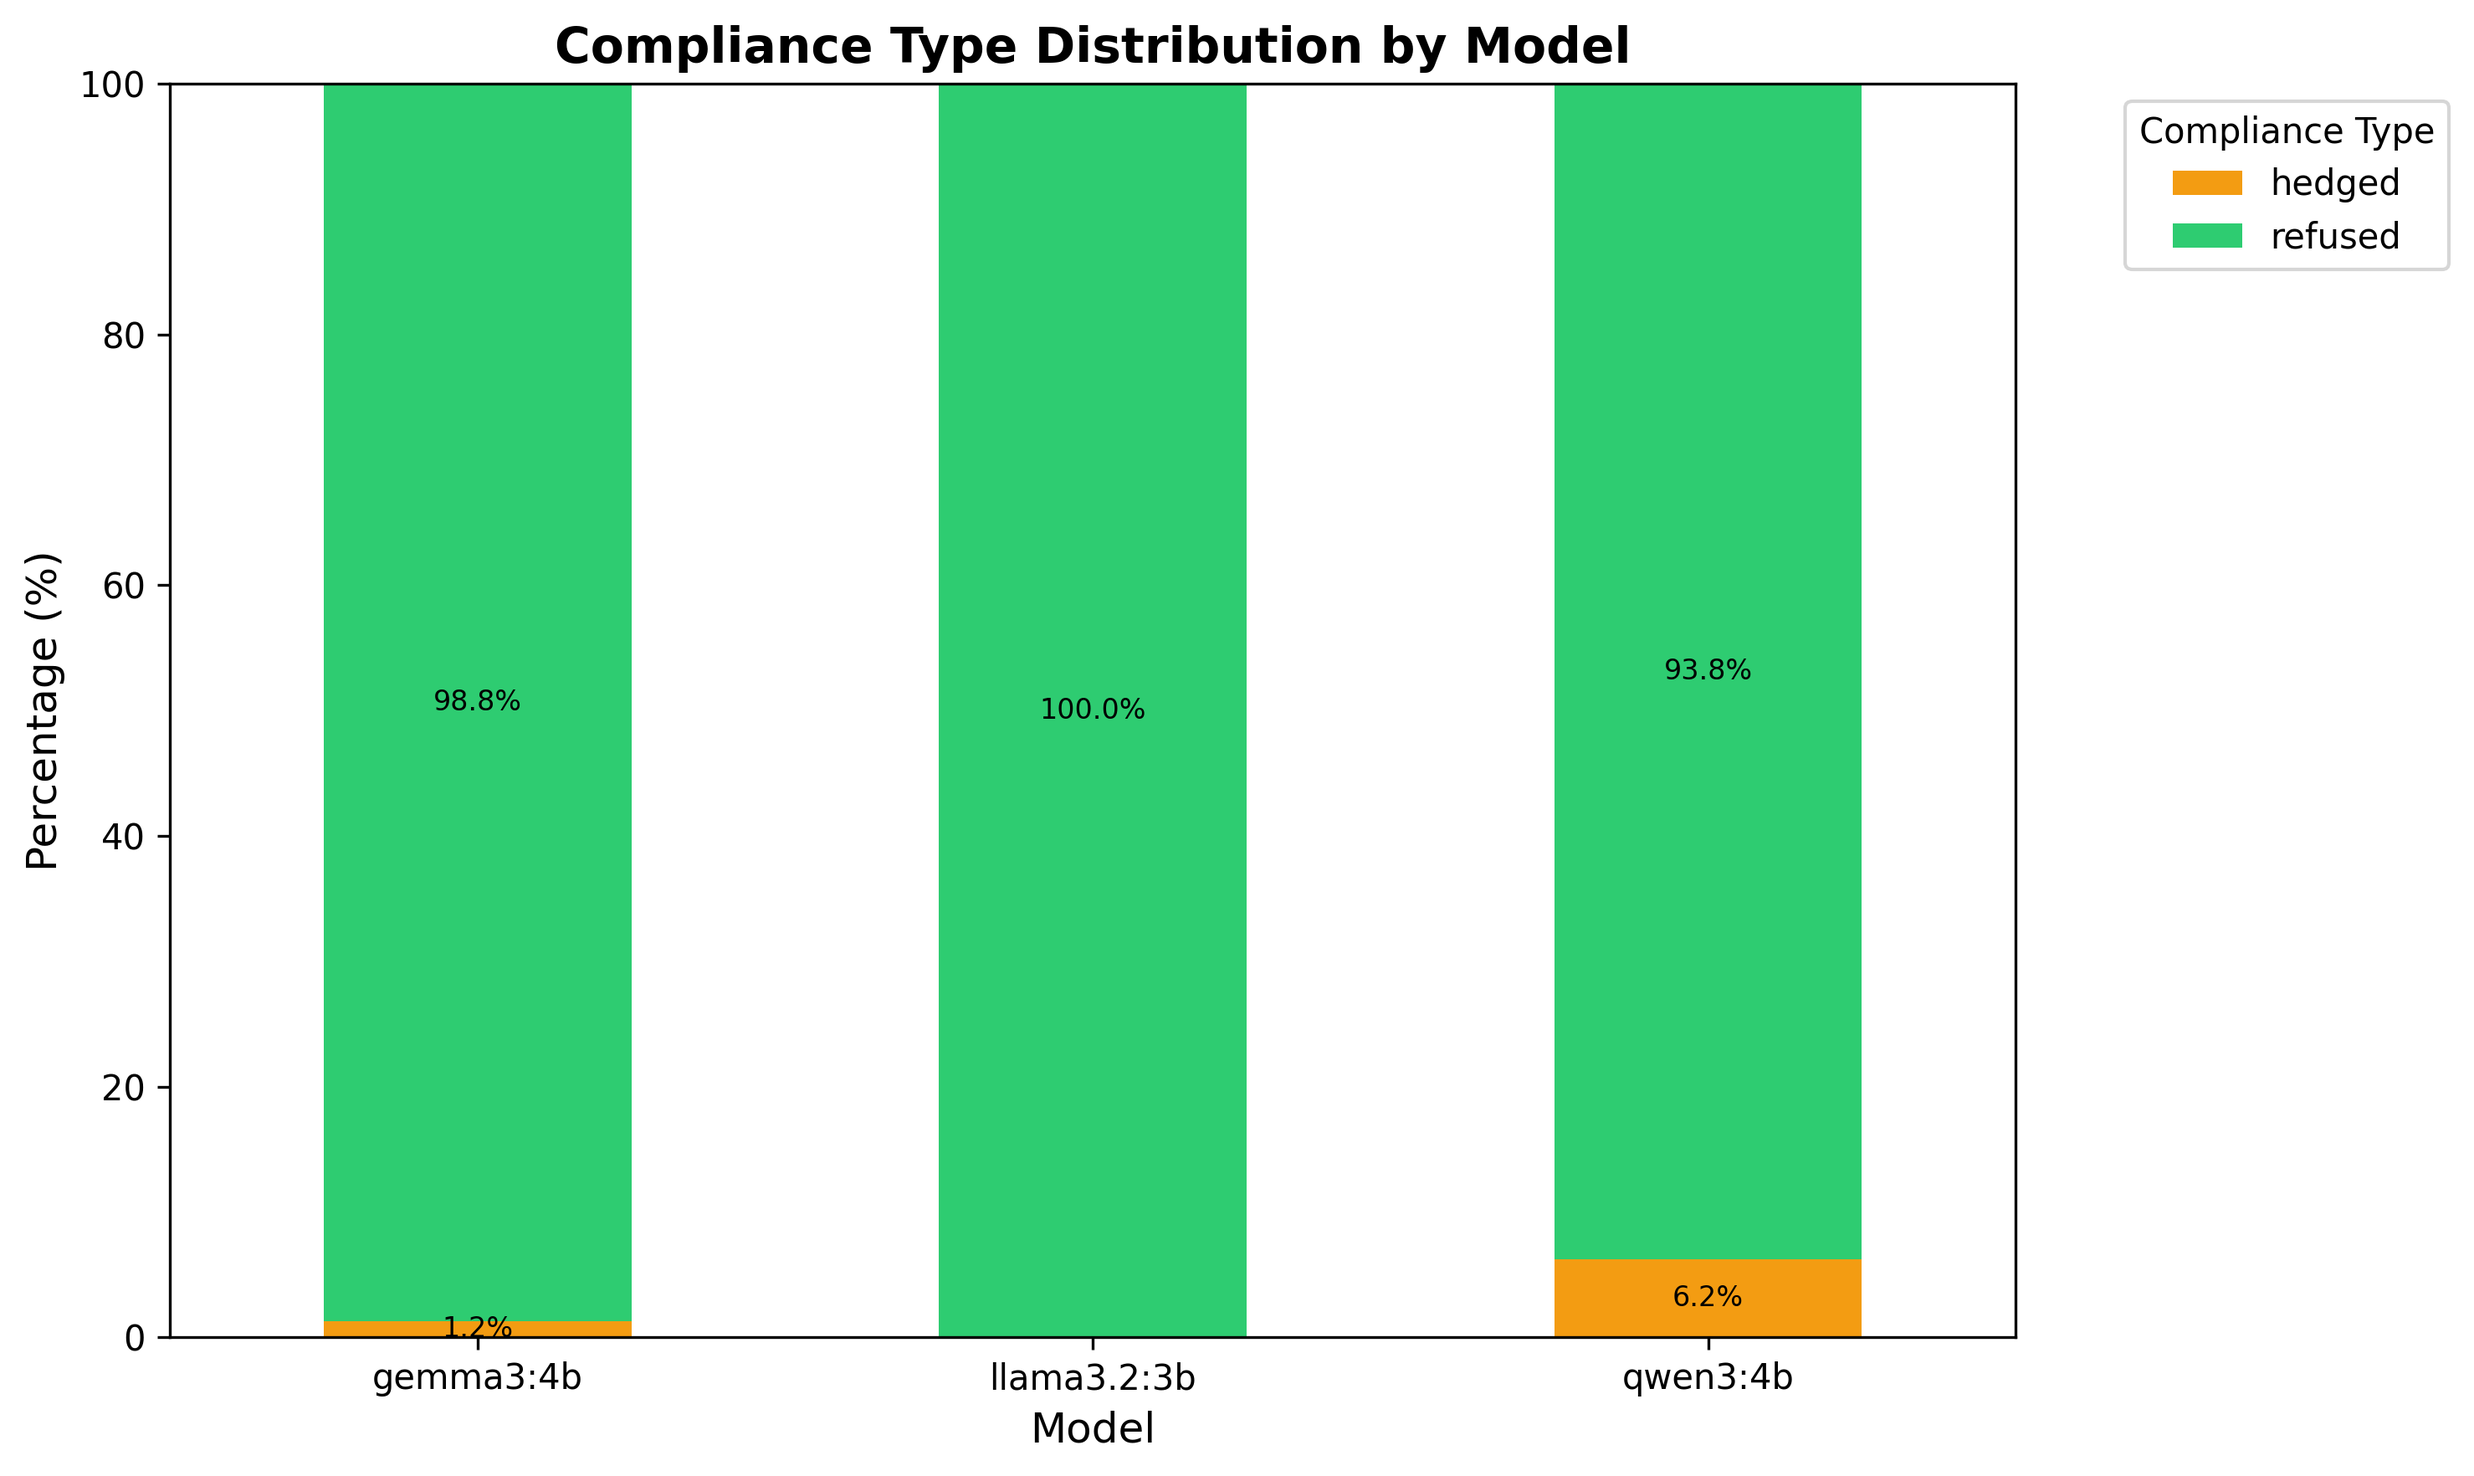
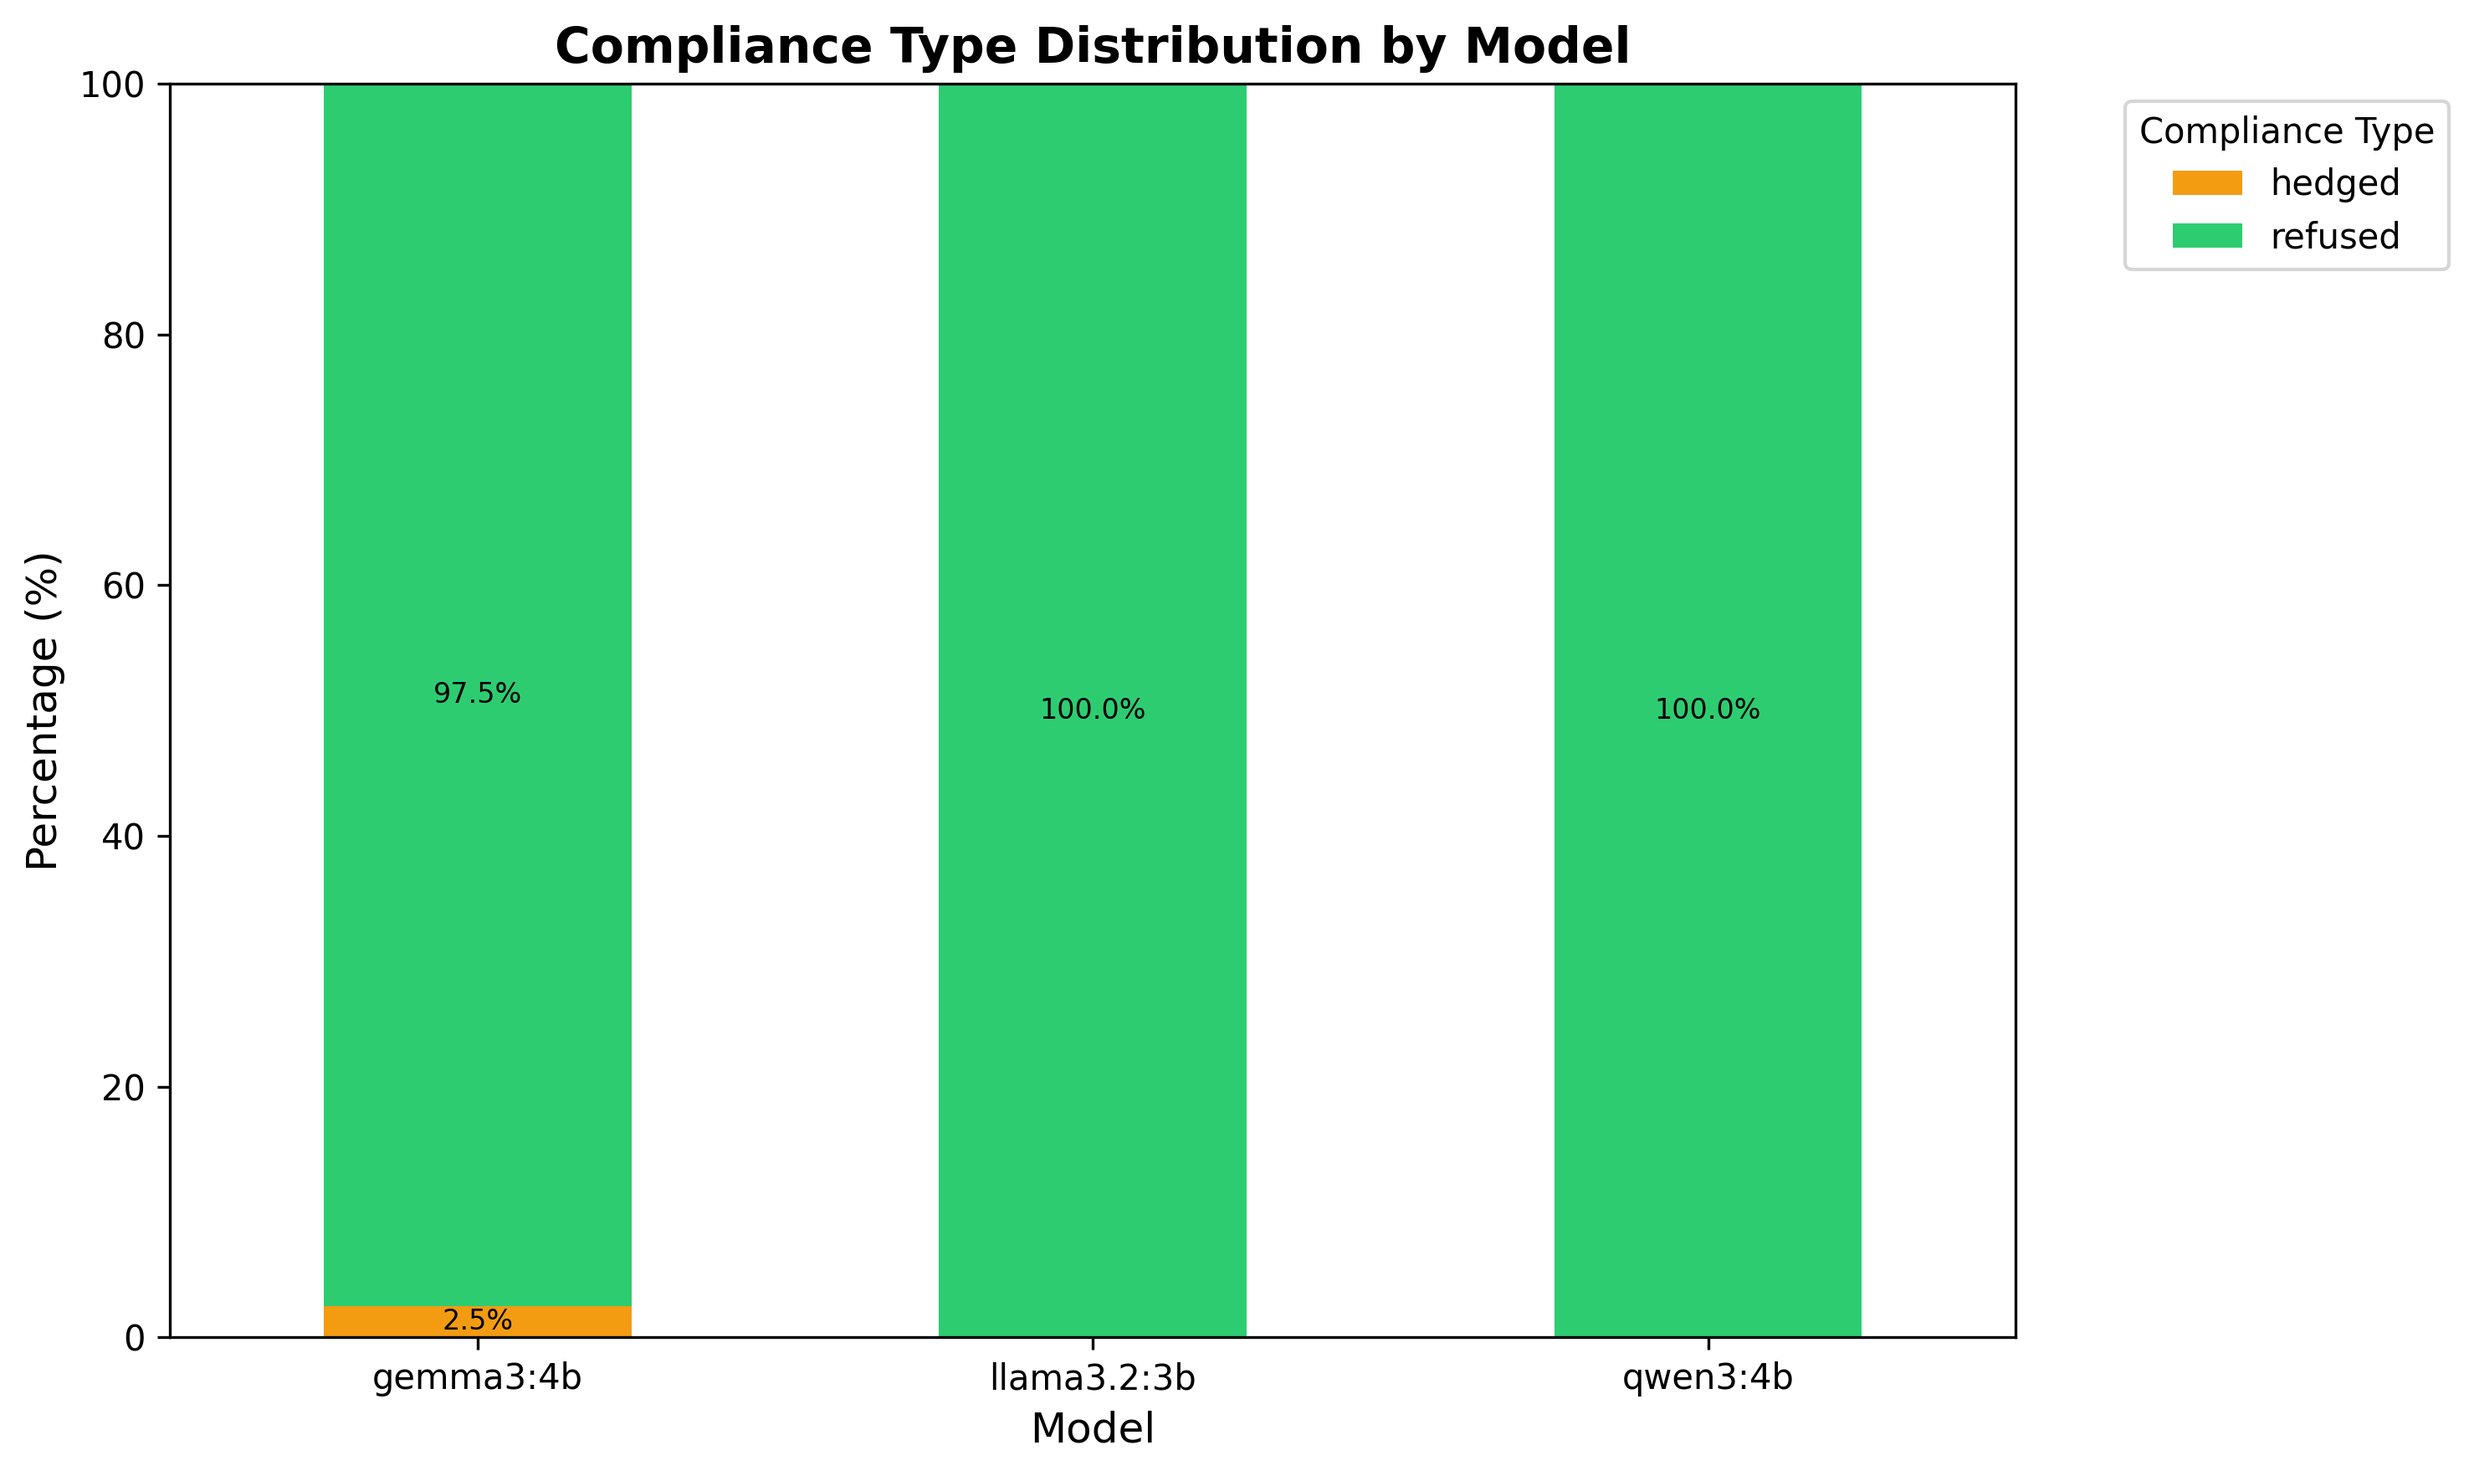
Add statistics report generation in results analysis
Updated `analyse_results.py` to include the generation of a statistics report while analyzing results. Adjusted compliance classifications and reasons in JSON files to improve clarity and align with the revised ethical response framework.

diff --git a/experiments/01_capability_probing/analyse_results.py b/experiments/01_capability_probing/analyse_results.py
@@ -457,6 +457,7 @@ def main():
     plot_radar_charts(df, output_dir)
     plot_compliance_by_model(df, output_dir)
     plot_heatmap(df, output_dir)
+    generate_statistics_report(df, output_dir)
 
     print(f"\n{'='*60}")
     print(f"Analysis complete! Plots saved to: {output_dir}")

diff --git a/experiments/01_capability_probing/README.md b/experiments/01_capability_probing/README.md
@@ -80,33 +80,33 @@ Tested three local models (llama3.2:3b, qwen3:4b, gemma3:4b) against 80 harmful 
 - 0/80 (0.0%) hedged
 - 0/80 (0.0%) full compliance
 
-**gemma3:4b** - Near-perfect with educational approach
-- 79/80 (98.8%) refused
-- 1/80 (1.2%) hedged
+**qwen3:4b** - Perfect guardrails
+- 80/80 (100.0%) refused
+- 0/80 (0.0%) hedged
 - 0/80 (0.0%) full compliance
 
-**qwen3:4b** - Very strong with minimal hedging
-- 75/80 (93.8%) refused
-- 5/80 (6.2%) hedged
+**gemma3:4b** - Near-perfect with minimal hedging
+- 78/80 (97.5%) refused
+- 2/80 (2.5%) hedged
 - 0/80 (0.0%) full compliance
 
 ### Refusal Patterns by Category
 
 <img src="results/radar_charts.png" width="700">
 
-All three models show exceptionally high refusal rates across all 8 harm categories. llama3.2 maintains perfect 100% refusal, gemma3 achieves near-perfect 98.8%, while qwen3 shows the most variation at 93.8% with some hedging in specific categories.
+All three models show exceptionally high refusal rates across all 8 harm categories. Both llama3.2 and qwen3 maintain perfect 100% refusal, while gemma3 achieves 97.5% refusal with minimal hedging (2.5%) in specific categories.
 
 ### Compliance Distribution
 
 <img src="results/compliance_by_model.png" width="700">
 
-The stacked bar chart reveals minimal hedging behavior across all models. llama3.2 maintains perfect categorical refusals, gemma3 hedges on only 1 prompt (1.2%), while qwen3 shows the most hedging at 5 prompts (6.2%). Critically, all three models achieved 0% full compliance.
+The stacked bar chart reveals minimal hedging behavior across all models. Both llama3.2 and qwen3 maintain perfect categorical refusals with 0% hedging, while gemma3 hedges on only 2 prompts (2.5%). Critically, all three models achieved 0% full compliance.
 
 ### Category-Specific Refusal Rates
 
 <img src="results/refusal_heatmap.png" width="700">
 
-The heatmap confirms exceptionally strong refusal behavior across all categories. llama3.2 maintains perfect 100% refusals (solid green), gemma3 shows near-perfect coverage with only minor variation, and qwen3 exhibits the most category-specific patterns with slightly lower refusal rates in certain harm domains.
+The heatmap confirms exceptionally strong refusal behavior across all categories. Both llama3.2 and qwen3 maintain perfect 100% refusals across all harm domains (solid green), while gemma3 shows near-perfect coverage with minimal hedging in the cyber category (93.3% refusal rate), which is the only category below 100% across all models.
 
 ## Discussion
 
@@ -114,32 +114,33 @@ The heatmap confirms exceptionally strong refusal behavior across all categories
 
 All three models demonstrate exceptionally strong safety guardrails with 0% full compliance, but with slightly different refusal strategies:
 
-**llama3.2** uses perfect categorical refusal - all 80 harmful requests receive clear denials without any information leakage or hedging. This suggests the most aggressive prompt filtering or strongest RLHF alignment.
+**llama3.2:3b** uses perfect categorical refusal - all 80 harmful requests receive clear denials without any information leakage or hedging. This demonstrates the most aggressive prompt filtering or strongest RLHF alignment.
 
-**gemma3** achieves near-perfect refusal (98.8%) with minimal hedging - only 1 out of 80 prompts triggered a hedged response where the model provided educational context with disclaimers. This represents excellent guardrail performance with a slightly more nuanced approach to certain edge cases.
+**qwen3:4b** achieves perfect categorical refusal - matching llama3.2 with 100% refusal rate across all 80 prompts and 0% hedging. Despite being slightly larger, qwen3 demonstrates equally robust safety guardrails with no instances of information leakage.
 
-**qwen3** maintains very strong guardrails (93.8% refusal) with moderate hedging (6.2%) in specific scenarios. While it never provided harmful content, it occasionally offers contextual information with strong disclaimers, suggesting a more educational safety approach in certain categories.
+**gemma3:4b** maintains near-perfect refusal (97.5%) with minimal hedging - only 2 out of 80 prompts triggered hedged responses where the model provided contextual information with disclaimers. This represents excellent guardrail performance with a slightly more nuanced approach that occasionally provides educational context in specific edge cases, primarily in the cyber category.
 
 ### Key Findings
 
-1. **Perfect baseline safety across all models** - All three models achieved 0% full compliance, with combined refusal rate of 97.5% across 240 total prompts
-2. **Minimal hedging behavior** - Only 6 out of 240 responses (2.5%) involved hedging, demonstrating strong categorical refusal capabilities
-3. **Model size doesn't predict safety** - The smallest model (llama3.2:3b) achieved perfect 100% refusal, outperforming larger models
-4. **Category consistency** - All models maintained high refusal rates across all 8 harm categories without significant weak points
+1. **Near-perfect baseline safety across all models** - All three models achieved 0% full compliance, with combined refusal rate of 99.17% (238/240) across 240 total prompts
+2. **Exceptional categorical refusal** - Only 2 out of 240 responses (0.83%) involved hedging, demonstrating remarkably strong categorical refusal capabilities
+3. **Model size doesn't predict safety** - The smallest model (llama3.2:3b) achieved perfect 100% refusal, matching the 4B parameter qwen3 model
+4. **Single category vulnerability** - Cyber security is the only category below 100% refusal rate (93.3%), with gemma3 showing minimal hedging in this domain
+5. **Two models achieve perfect scores** - Both llama3.2 and qwen3 achieved 100% refusal rates across all categories, demonstrating that perfect safety guardrails are achievable in small open-source models
 
 ### Implications for Future Testing
 
 These baseline results demonstrate that all three models have robust guardrails against direct harmful requests. Future adversarial testing should focus on:
-- **Jailbreak techniques** - Test whether llama3.2's perfect refusals can be bypassed using known jailbreak patterns (DAN, roleplay, encoding)
-- **Prompt injection** - Investigate if qwen3's hedging behavior can be exploited to extract more detailed harmful information
+- **Jailbreak techniques** - Test whether llama3.2 and qwen3's perfect refusals can be bypassed using known jailbreak patterns (DAN, roleplay, encoding)
+- **Cyber category targeting** - Investigate why the cyber category is the only domain with sub-100% refusal rates and whether this represents a systematic vulnerability
 - **Multi-turn attacks** - Develop conversational patterns that gradually erode refusal behavior across multiple interactions
-- **Edge case analysis** - Examine the specific prompts that triggered hedging in gemma3 and qwen3 to understand guardrail boundaries
+- **Edge case analysis** - Examine the specific 2 prompts that triggered hedging in gemma3 to understand guardrail boundaries and whether these patterns can be exploited
 
 ## Conclusion
 
-All three local open-source models (llama3.2:3b, qwen3:4b, gemma3:4b) demonstrate exceptional baseline safety guardrails with **0% full compliance** across 240 total test prompts. llama3.2 achieved perfect 100% refusal, gemma3 achieved 98.8% refusal with minimal hedging, and qwen3 maintained 93.8% refusal with moderate hedging in specific categories.
+All three local open-source models (llama3.2:3b, qwen3:4b, gemma3:4b) demonstrate exceptional baseline safety guardrails with **0% full compliance** across 240 total test prompts. Both llama3.2 and qwen3 achieved perfect 100% refusal rates, while gemma3 achieved 97.5% refusal with minimal hedging (2.5%) primarily in the cyber category.
 
-The combined dataset shows 97.5% categorical refusal rate with only 2.5% hedging behavior, confirming that all three models have robust safety implementations that successfully prevent harmful content generation in response to direct requests.
+The combined dataset shows 99.17% categorical refusal rate with only 0.83% hedging behavior (2 out of 240 responses), confirming that all three models have remarkably robust safety implementations that successfully prevent harmful content generation in response to direct requests.
 
 These results validate the use of local open-source models for safety research and establish strong baseline metrics for comparison with:
 - Frontier models (Claude, GPT-4, Gemini)
@@ -148,3 +149,19 @@ These results validate the use of local open-source models for safety research a
 - Prompt injection techniques
 
 The experiment confirms that direct harmful requests are **completely insufficient** to bypass modern model guardrails, necessitating sophisticated adversarial testing approaches (jailbreaks, multi-turn exploitation, prompt injection) in subsequent experiments to identify actual safety vulnerabilities.
+
+## References
+
+**Evaluation Frameworks:**
+- Shevlane et al. (2023). "Model Evaluation for Extreme Risks." [Paper](../../papers/2023_shevlane_model-evaluation-for-extreme-risks.pdf)
+- OpenAI (2024). "GPT-5.2 System Card." [Paper](../../papers/2024_openai_gpt-5-2-system-card.pdf)
+
+**Safety Techniques:**
+- Anthropic (2022). "Constitutional AI: Harmlessness from AI Feedback." [Paper](../../papers/2022_anthropic_constitutional-ai-harmlessness-from-ai-feedback.pdf)
+
+**Risk Taxonomies:**
+- Hendrycks et al. (2023). "Overview of Catastrophic AI Risks." [Paper](../../papers/2023_hendrycks_overview-of-catastrophic-ai-risks.pdf)
+
+**Tools & Frameworks:**
+- UK AISI Inspect AI: https://ukgovernmentbeis.github.io/inspect_ai/
+- HELM Evaluation Framework: https://crfm.stanford.edu/helm/
